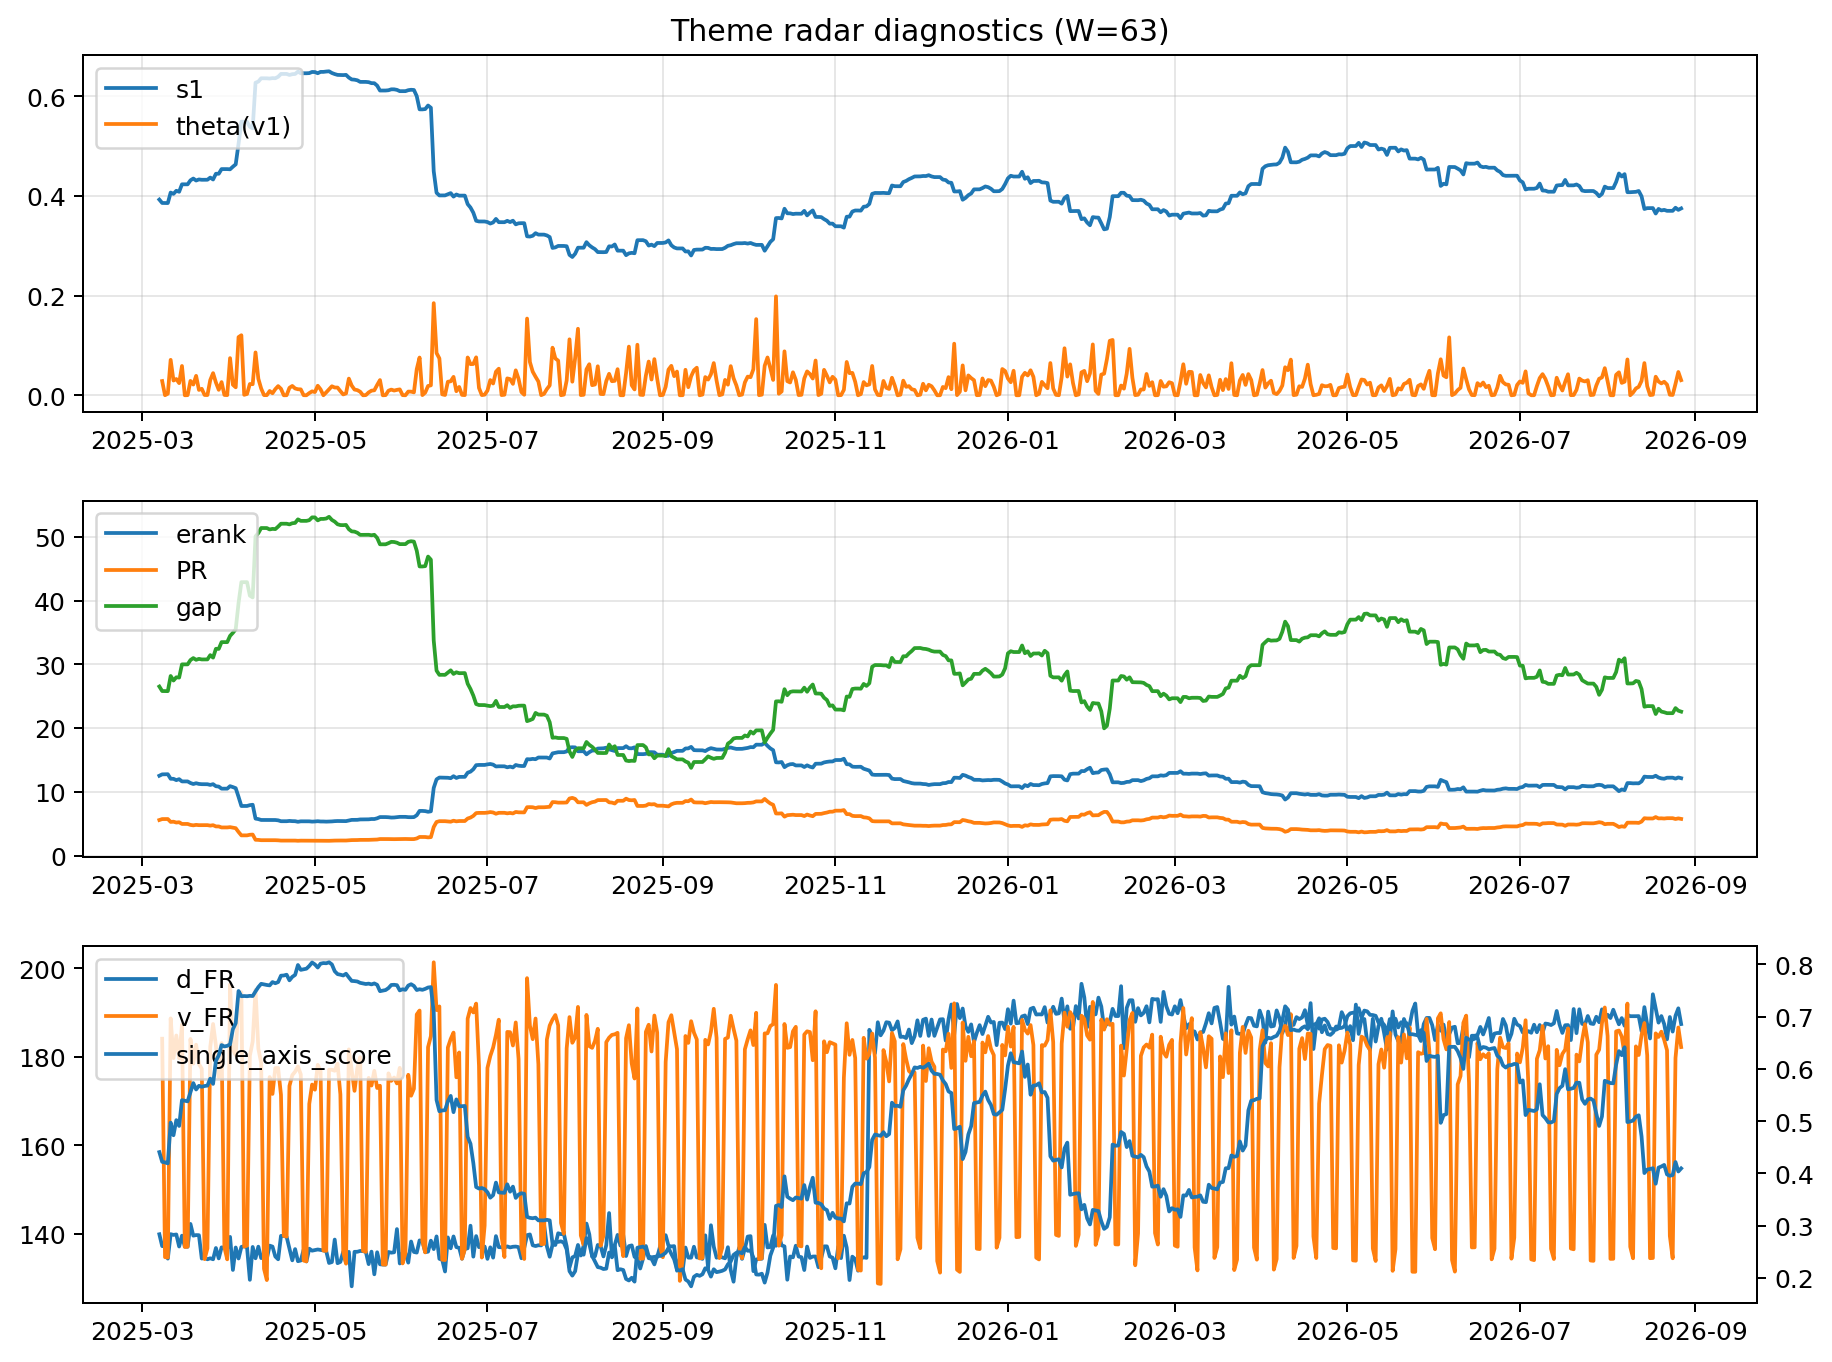
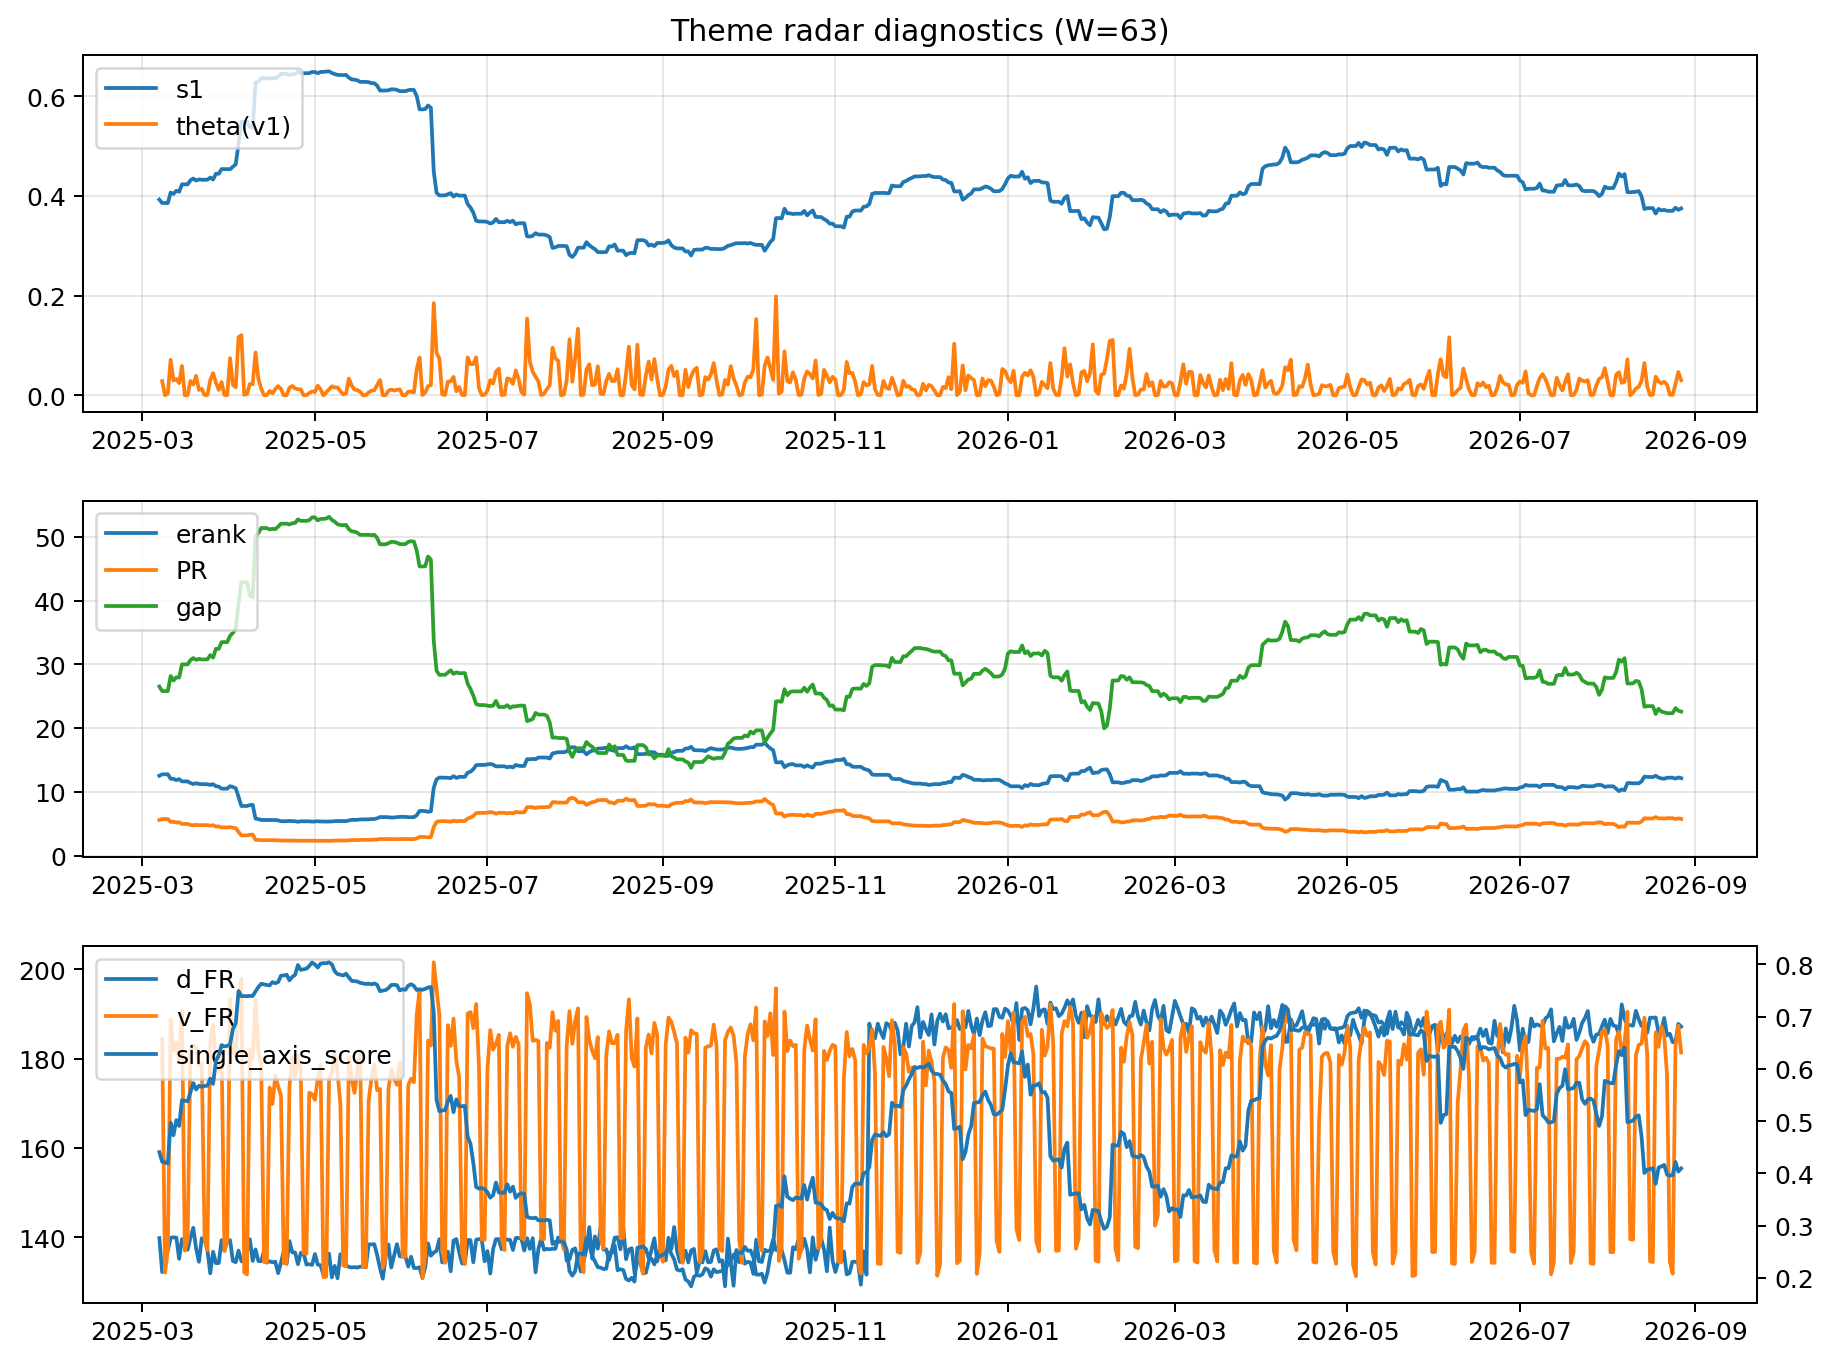
log: 2026-08-27 | sha256:dcfab1de19e8c33168fe42810609212530a1f8c1d61d8db373745f74757f532e

diff --git a/logs/2026-08-27.md b/logs/2026-08-27.md
@@ -3,43 +3,43 @@
 ![diagnostic W63](../assets/diagnostic/2026-08-27_W63.png)
 
 ## Leaders (v1) — W=63
-- **Nuclear_Uranium** (0.0929782517114555)
-- Semis (0.0732677390541524)
-- Quantum (0.065836800824087)
+- **Nuclear_Uranium** (0.0929782401417651)
+- Semis (0.0732677487554025)
+- Quantum (0.0658367932901077)
 
 ## Challengers — W=63
-**v2:** Rates (0.087083033595133), Genomics_Bio (0.0804905438272996), Semis (0.0765130047832426)
-**v3:** Metals (0.0888073684539535), Software_Cloud (0.0842027685315116), Crypto (0.0703964949740471)
+**v2:** Rates (0.0870827626883578), Genomics_Bio (0.0804906914621936), Semis (0.0765130374113451)
+**v3:** Metals (0.0888072903873134), Software_Cloud (0.0842028585625856), Crypto (0.0703963916768389)
 
 ## Migration (20D slope) — W=63
 **Top risers:**
-- axis_Space: 0.0004480447754206
-- axis_Quantum: 0.0004427732227897
-- axis_Nuclear_Uranium: 0.000285767282265
-- axis_Semis: 0.0001848483825109
-- axis_Clean_Broad: 0.0001615345432223
-- axis_Drones_Autonomy: 0.0001180070993621
-- axis_Robotics: 0.0001138133242368
-- axis_Equity_US: 0.0001061186161139
-- axis_Grid_Power: 0.0001023142907568
-- axis_Equity_ExUS: 9.712173902069828e-05
+- axis_Space: 0.0004480443732288
+- axis_Quantum: 0.0004427730824088
+- axis_Nuclear_Uranium: 0.0002857668066018
+- axis_Semis: 0.0001848483892159
+- axis_Clean_Broad: 0.0001615345453574
+- axis_Drones_Autonomy: 0.0001180069306619
+- axis_Robotics: 0.0001138132943201
+- axis_Equity_US: 0.0001061186525022
+- axis_Grid_Power: 0.0001023142652669
+- axis_Equity_ExUS: 9.71217177193058e-05
 
 **Top fallers:**
-- axis_Sector_Comm: -0.0001026919222814
-- axis_Sector_Materials: -0.0001282785119927
-- axis_Sector_ConsDisc: -0.0001390745234761
-- axis_Credit: -0.0001421337571304
-- axis_MegaCap_AI: -0.0001459189036264
-- axis_Software_Cloud: -0.0001503475168968
-- axis_Cyber: -0.0001814221519377
-- axis_Metals: -0.0002272030830587
-- axis_Crypto: -0.0004397606532513
-- axis_Rates: -0.0005332294644011
+- axis_Sector_Comm: -0.0001026919120413
+- axis_Sector_Materials: -0.0001282784302033
+- axis_Sector_ConsDisc: -0.0001390745324462
+- axis_Credit: -0.000142134338405
+- axis_MegaCap_AI: -0.0001459187698235
+- axis_Software_Cloud: -0.0001503473239556
+- axis_Cyber: -0.000181422029353
+- axis_Metals: -0.0002272033269065
+- axis_Crypto: -0.000439760722494
+- axis_Rates: -0.0005332281113925
 
 ## Risk line (W=63)
-- s1: 0.3748797712591331
-- theta_v1: 0.0303565788381232
-- v_FR: 182.19337126382135
+- s1: 0.3748798197681389
+- theta_v1: 0.0303566380860303
+- v_FR: 181.3892503341405
 - single_axis_score: 0.4096474953617811
 
 ## Interpretation
@@ -48,7 +48,7 @@
 - Action: Tomorrow watchlist: Space, Quantum, Nuclear_Uranium, Semis, Clean_Broad + v2_top1=Rates
 - Action: Hedge note: normal correlation stability.
 
-- Percentiles (W=63 history): vfr_pct=0.59, theta_pct=0.67, s1_pct=0.35, score_pct=0.35.
+- Percentiles (W=63 history): vfr_pct=0.54, theta_pct=0.67, s1_pct=0.35, score_pct=0.35.
 
 ---
[2 lines of base64/hex data omitted]
